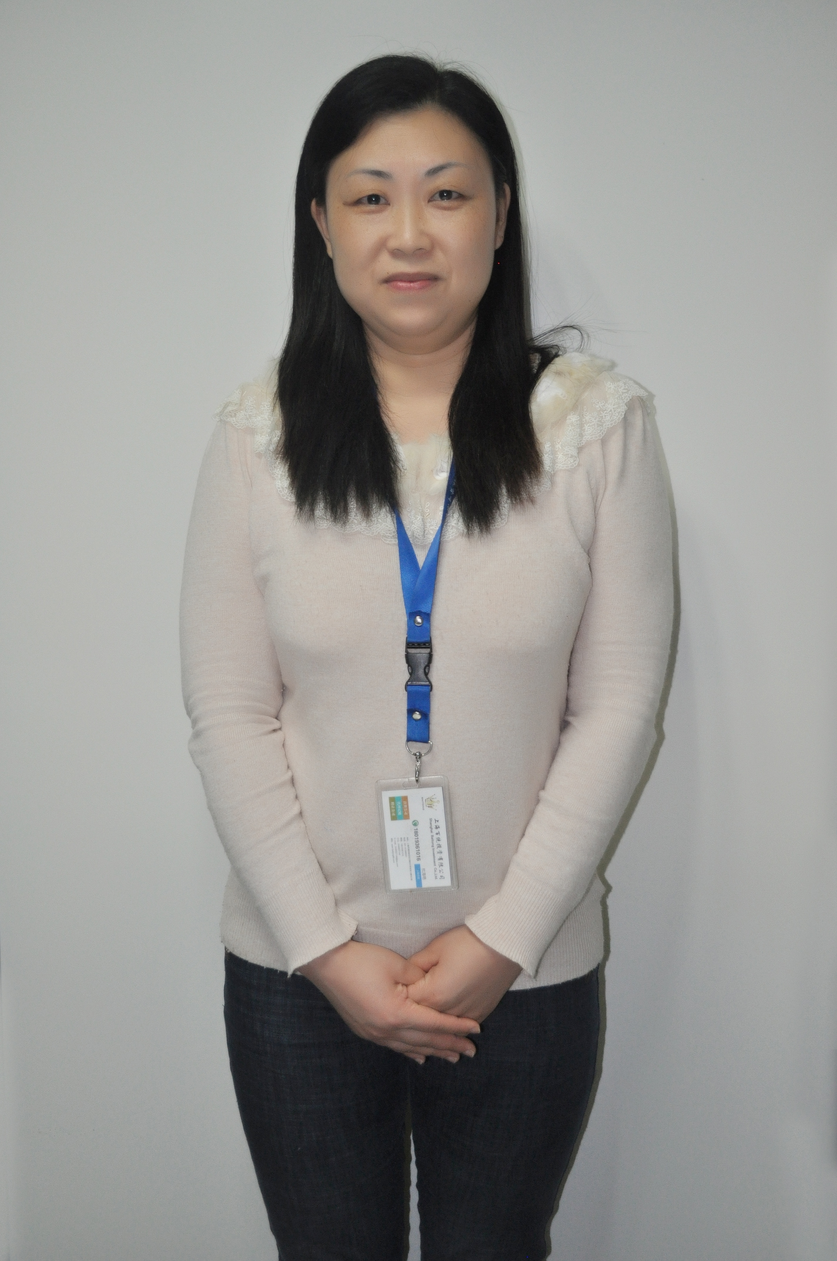
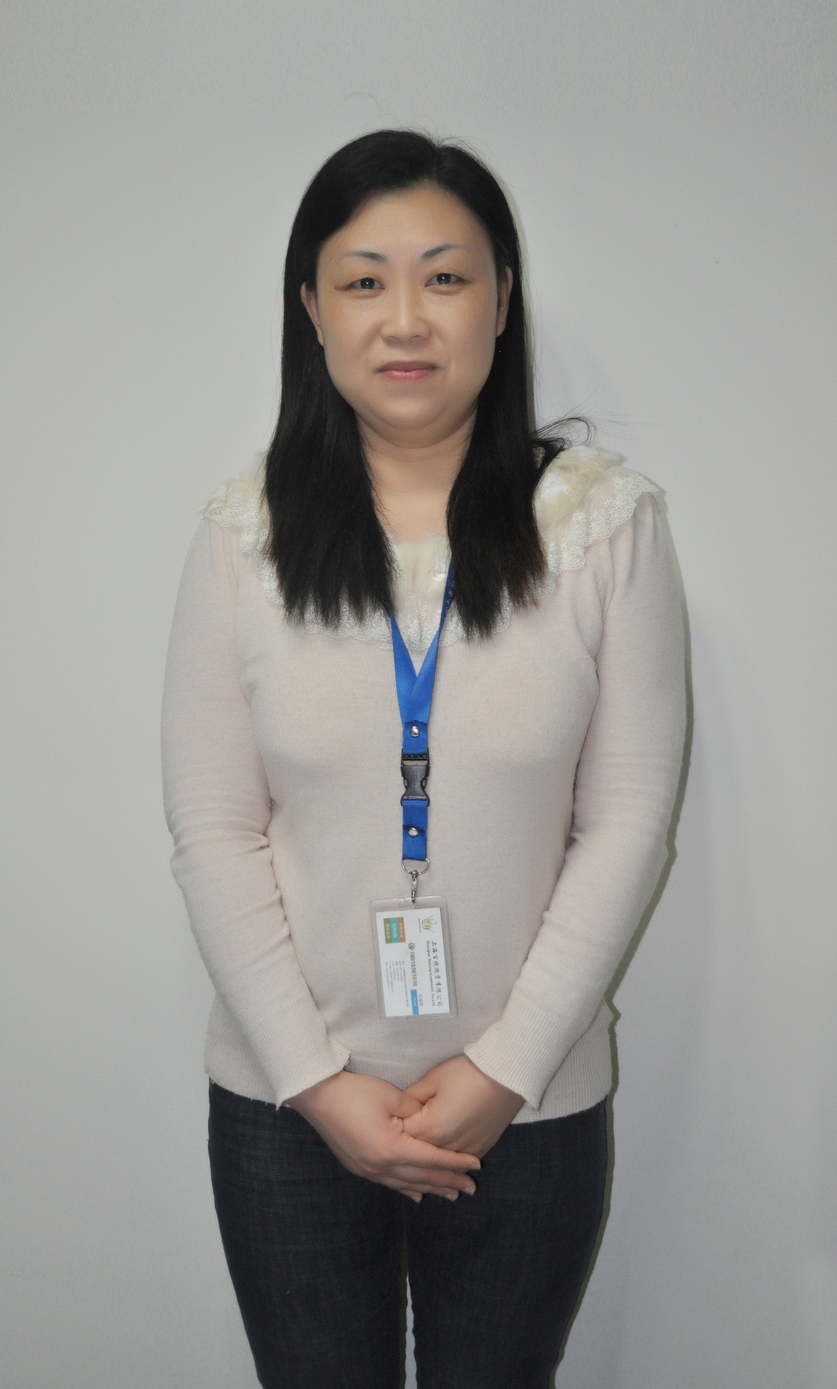
u

diff --git a/templates/homepage/media1.html b/templates/homepage/media1.html
@@ -1,0 +1,67 @@
+<style>
+    .new{width:100%;background:#fff;padding-top:48px;padding-bottom:60px;}
+    .media{width:1200px;margin:0 auto;overflow: hidden;}
+    .company{width:380px;float:left;margin-right:30px;}
+    .media_top{width:100%;border-bottom:1px solid #d02e4e;font-size:32px;font-size:1.75rem;color:#333;padding-bottom:13px;padding-bottom:0.8rem;}
+    .media_top .l{font-size:14px;color:#666;}
+    .media_top .r{float:right;display:block;background:url(/statics/images/img/jia.png) no-repeat left;padding-left:24px;font-size:14px;padding-left:1.5rem;font-size:0.875rem;color:#666;margin-right:14px;margin-right:0.9rem;}
+    .media_top .r a{color:#666;}
+    .media_img img{margin-top:24px;margin-top:1.5rem;display: block;height: auto;max-width: 100%;line-height: 1;}
+    .txt{font-size:16px;width:100%;text-align:center;line-height:32px;line-height:2.0rem;background:url(/statics/images/img/rgba60.png);left: 0;bottom: 0;color: #fff;font-family: "微软雅黑";position:absolute;margin-top:31px;margin-top:-1.95rem;}
+    .company ul li{width:100%;font-size:14px;line-height:31px;line-height:1.95rem;border-bottom:1px dashed #ccc;}
+    .company ul li.media_img{border:0;}
+    .company ul li a{color:#333;padding-left:20px;display: block;position:relative;}
+    .company ul li.media_img a{padding-left:0px;}
+    .company ul li a:hover{color:#c80027;}
+    .media ul li span{position: absolute;right:0;}
+    .media ul li i{width:4px;height:4px; border-radius: 2px;background:#c80027;position: absolute;left:0;top:13px;}
+    .dynamic{width:380px;float:left;margin-right:30px;}
+    .dynamic ul li{width:100%;font-size:14px;line-height:31px;line-height:1.95rem;border-bottom:1px dashed #ccc;}
+    .dynamic ul li.media_img{border:0;}
+    .dynamic ul li a{color:#333;padding-left:20px;display: block;position:relative;}
+    .dynamic ul li.media_img a{padding-left:0px;}
+    .dynamic ul li a:hover{color:#c80027;}
+    .ask{width:380px;float:left;}
+    .ask ul li{width:100%;font-size:14px;line-height:31px;line-height:1.95rem;border-bottom:1px dashed #ccc;}
+    .ask ul li.media_img{border:0;}
+    .ask ul li a{color:#333;padding-left:20px;display: block;position:relative;}
+    .ask ul li.media_img a{padding-left:0px;}
+    .ask ul li a:hover{color:#c80027;}
+</style>
+<div class="new">
+<div class="media">
+<div class="company">
+<div class="media_top">公司动态<br><span class="l">COMPANY NEWS</span><span class="r"><a href="/#">更多</a></span></div>
+<ul>
+<li class="media_img"><a href="#"><img src="http://www.sunaomei.com/statics/images/img/media.jpg" width="380" height="200"><div class="txt">新办天津村镇银行条件</div></a></li>
+<li><a href="#"><i></i><div class="ayong">精英齐聚风雨同舟,阳光奥美集团2017年春...<span>2017-01-22</span></div></a></li>
+<li><a href="#"><i></i><div class="ayong">工商总局关于全面推进企业简易注销登记...<span>2017-01-03</span></div></a></li>
+<li><a href="#"><i></i><div class="ayong">天津典当行转让-阳光奥美独家资源<span>2016-12-07</span></div></a></li>
+<li><a href="#"><i></i><div class="ayong">培训学校办学资质转让<span>2016-12-05</span></div></a></li>
+<li style="background: none;"><a href="#"><i></i><div class="ayong">转让带20个车指标的汽车租赁公司<span>2016-11-22</span></div></a></li>
+</ul>
+</div>
+<div class="dynamic">
+<div class="media_top">行业资讯<br><span class="l">INDUSTRY INFORMATION </span><span class="r"><a href="/#">更多</a></span></div>
+<ul>
+<li class="media_img"><a href="#"><img src="http://www.sunaomei.com/statics/images/img/media01.jpg" width="380" height="200"><div class="txt">2017年外资商业保理公司注册资金要求详解</div></a></li>
+<li><a href="#.html"><i></i><div class="ayong">2017年外资融资租赁公司经营范围及注册...<span>2017-02-10</span></div></a></li>
+<li><a href="#"><i></i><div class="ayong">股份有限公司注册-股份有限公司设立的条...<span>2017-02-10</span></div></a></li>
+<li><a href="#"><i></i><div class="ayong">商业保理公司注册流程详解<span>2016-12-08</span></div></a></li>
+<li><a href="#"><i></i><div class="ayong">北京公司股权转让有五大类型<span>2016-10-27</span></div></a></li>
+<li style="background: none;"><a href="#"><i></i><div class="ayong">融资租赁公司注册需要具备哪些条件？<span>2016-10-19</span></div></a></li>
+</ul>
+</div>
+<div class="ask">
+<div class="media_top">常见问题<br><span class="l">FREQUENTLY ASKED QUESTIONS</span><span class="r"><a href="/#">更多</a></span></div>
+<ul>
+<li class="media_img"><a href="#l"><img src="http://www.sunaomei.com/statics/images/img/media02.jpg" width="380" height="200"><div class="txt">北京车指标常见问题解答</div></a></li>
+<li><a href="#"><i></i><div class="ayong">申请基金销售业务资格应当具备什么条件<span>2016-12-09</span></div></a></li>
+<li><a href="#"><i></i><div class="ayong">北京注册分公司需要提供什么资料？<span>2016-12-09</span></div></a></li>
+<li><a href="#"><i></i><div class="ayong">融资租赁纯外资的要变更合资的，对内资...<span>2016-12-05</span></div></a></li>
+<li><a href="#"><i></i><div class="ayong">上海注册融资租赁公司多少钱？<span>2016-11-15</span></div></a></li>
+<li style="background: none;"><a href="#"><i></i><div class="ayong">注册融资租赁公司审批条件？<span>2016-11-01</span></div></a></li>
+</ul>
+</div>
+</div>
+</div>

diff --git a/templates/homepage/recent_works.html b/templates/homepage/recent_works.html
@@ -9,7 +9,7 @@
 	margin-left: auto;
 	margin-right: auto;
 }
-.pic img{
+.pic_work img{
     width: 230px;
     height: 260px;
 }
@@ -20,8 +20,8 @@
 .picScroll-left .bd{ padding-top:20px;margin-left:25px}
 .picScroll-left .bd ul{ overflow:hidden;}
 .picScroll-left .bd ul li{ margin:0 10px;width:230px;float:left;display:inline; overflow:hidden; text-align:center;  }
-.picScroll-left .bd ul li .pic{text-align:center;}
-.picScroll-left .bd ul li .pic img{ display:block; }
+.picScroll-left .bd ul li .pic_work{text-align:center;}
+.picScroll-left .bd ul li .pic_work img{ display:block; }
 .picScroll-left .bd ul li .title{ line-height:50px;}
 </style>
 <section id="recent_works" style="padding-bottom: 0px">
@@ -37,47 +37,47 @@
 			<div class="bd">
 				<ul class="picList">
 					<li>
-						<div class="pic"><a href="#"><img src="/static/images/works/1451028390595648.jpg"/></a></div>
+						<div class="pic_work"><a href="#"><img src="/static/images/works/1451028390595648.jpg"/></a></div>
 						<div class="title"><a href="#">全国私募备案</a></div>
 					</li>
 					<li>
-						<div class="pic"><a href="#"><img src="/static/images/works/1451369720559917.jpg" /></a></div>
+						<div class="pic_work"><a href="#"><img src="/static/images/works/1451369720559917.jpg" /></a></div>
 						<div class="title"><a href="#">水路运输服务许可证</a></div>
 					</li>
 					<li>
-						<div class="pic"><a href="#"><img src="/static/images/works/1451029487820099.jpg" /></a></div>
+						<div class="pic_work"><a href="#"><img src="/static/images/works/1451029487820099.jpg" /></a></div>
 						<div class="title"><a href="#">基金公司</a></div>
 					</li>
 					<li>
-						<div class="pic"><a href="#"><img src="/static/images/works/1451369869951302.jpg" /></a></div>
+						<div class="pic_work"><a href="#"><img src="/static/images/works/1451369869951302.jpg" /></a></div>
 						<div class="title"><a href="#">无船承运</a></div>
 					</li>
                     <li>
-						<div class="pic"><a href="#"><img src="/static/images/works/1451029575574655.jpg" /></a></div>
+						<div class="pic_work"><a href="#"><img src="/static/images/works/1451029575574655.jpg" /></a></div>
 						<div class="title"><a href="#">航空铜牌</a></div>
 					</li>
                     <li>
-						<div class="pic"><a href="#"><img src="/static/images/works/1451370478665513.jpg" /></a></div>
+						<div class="pic_work"><a href="#"><img src="/static/images/works/1451370478665513.jpg" /></a></div>
 						<div class="title"><a href="#">建筑业企业资质证书</a></div>
 					</li>
                     <li>
-						<div class="pic"><a href="#"><img src="/static/images/works/1451024565992831.jpg" /></a></div>
+						<div class="pic_work"><a href="#"><img src="/static/images/works/1451024565992831.jpg" /></a></div>
 						<div class="title"><a href="#">1000万股份制有限公司</a></div>
 					</li>
                     <li>
-						<div class="pic"><a href="#"><img src="/static/images/works/1451027045631777.jpg" /></a></div>
+						<div class="pic_work"><a href="#"><img src="/static/images/works/1451027045631777.jpg" /></a></div>
 						<div class="title"><a href="#">3000万自贸区融资租赁公司</a></div>
 					</li>
                     <li>
-						<div class="pic"><a href="#"><img src="/static/images/works/1451027730572991.jpg" /></a></div>
+						<div class="pic_work"><a href="#"><img src="/static/images/works/1451027730572991.jpg" /></a></div>
 						<div class="title"><a href="#">5000万自贸区商业保理公司</a></div>
 					</li>
                     <li>
-						<div class="pic"><a href="#"><img src="/static/images/works/1451029749761175.jpg" /></a></div>
+						<div class="pic_work"><a href="#"><img src="/static/images/works/1451029749761175.jpg" /></a></div>
 						<div class="title"><a href="#">增值电信业务经营许可证</a></div>
 					</li>
                     <li>
-						<div class="pic"><a href="#"><img src="/static/images/works/2-151224103H60-L.jpg" /></a></div>
+						<div class="pic_work"><a href="#"><img src="/static/images/works/2-151224103H60-L.jpg" /></a></div>
 						<div class="title"><a href="#">1亿基金公司</a></div>
 					</li>
 				</ul>

diff --git a/templates/homepage/slider.html b/templates/homepage/slider.html
@@ -8,7 +8,7 @@
             </ol>
 
             <div class="carousel-inner">
-                <div class="item active" style="background-image: url(/static/images/slider/bg1.jpg);height:450px;overflow:hidden">
+                <div class="item active" style="background-image: url(/static/images/slider/bg1.jpg?v=1486906492);height:450px;overflow:hidden">
 {#                    <div class="container">#}
 {#                        <div class="row">#}
 {#                            <div class="col-sm-6">#}
@@ -30,7 +30,7 @@
 {#                    </div>#}
                 </div><!--/.item-->
 
-                <div class="item" style="background-image: url(/static/images/slider/bg2.jpg);height:450px;overflow:hidden">
+                <div class="item" style="background-image: url(/static/images/slider/bg2.jpg?v=1486906493);height:450px;overflow:hidden">
 {#                    <div class="container">#}
 {#                        <div class="row ">#}
 {#                            <div class="col-sm-6">#}
@@ -52,7 +52,7 @@
 {#                    </div>#}
                 </div><!--/.item-->
 
-                <div class="item" style="background-image: url(/static/images/slider/bg01.jpg);height:450px;overflow:hidden">
+                <div class="item" style="background-image: url(/static/images/slider/bg01.jpg?v=1486906492);height:450px;overflow:hidden">
 {#                    <div class="container">#}
 {#                        <div class="row">#}
 {#                            <div class="col-sm-6">#}

diff --git a/templates/homepage/members.html b/templates/homepage/members.html
@@ -2,6 +2,10 @@
 #members{
     background-color: #fff9f6;
 }
+#members .pic img{
+    width: 200px;
+    height: 325px;
+}
 .picScroll-left{
 	width: 100%;
 	height: auto;
@@ -11,9 +15,9 @@
 	margin-left: auto;
 	margin-right: auto;
 }
-.picScroll-left .hd .prev{isplay:block;  float:left; margin-left:5px; margin-top:120px;  overflow:hidden;
+.picScroll-left .hd .prev{isplay:block;  float:left; margin-left:5px; margin-top:160px;  overflow:hidden;
 			 cursor:pointer; }
-.picScroll-left .hd .next{ display:block;  float:right; margin-right:5px; margin-top:120px;  overflow:hidden;
+.picScroll-left .hd .next{ display:block;  float:right; margin-right:5px; margin-top:160px;  overflow:hidden;
 			 cursor:pointer; }
 .picScroll-left .bd{ padding-top:20px;margin-left:25px}
 .picScroll-left .bd ul{ overflow:hidden;}
@@ -58,7 +62,7 @@
                         </div>
 					</li>
 					<li>
-						<div class="pic"><a href="javascript:void(0)" onclick="showMemberDetail(this)"><img src="/static/images/members/cuishiqin.jpg?v=123" /></a>
+						<div class="pic"><a href="javascript:void(0)" onclick="showMemberDetail(this)"><img src="/static/images/members/cuishiqin.jpg?v=1486906492" /></a>
                                                     <div class="title">工商顾问--崔士勤 </div>
                             <button class="btn btn-danger btn-sm">在线咨询</button>
                         </div>

diff --git a/templates/homepage.html b/templates/homepage.html
@@ -8,11 +8,11 @@
 {#     {% include 'homepage/register_steps.html' %}#}
 
 {#     {% include 'homepage/skills.html' %}#}
-{#     {% include 'homepage/media.html' %}#}
      {% include 'homepage/advert1.html' %}
      {% include 'homepage/character.html' %}
      {% include 'homepage/recent_works.html' %}
      {% include 'homepage/advert2.html' %}
+     {% include 'homepage/media1.html' %}
      {% include 'homepage/members.html' %}
      {% include 'homepage/parters.html' %}
 

diff --git a/gunicornserver.py b/gunicornserver.py
@@ -7,6 +7,7 @@ class GunicornServer(Command):
     description = 'Run the app within Gunicorn'
 
     def __init__(self, host='127.0.0.1', port=5000, workers=9, worker_class="sync", daemon=False):
+        print '........'
         self.port = port
         self.host = host
         self.workers = workers
@@ -40,7 +41,9 @@ class GunicornServer(Command):
                    default=self.daemon)
         )
 
-    def handle(self, app, host, port, workers, worker_class, daemon):
+    def run(self, *args):
+        print '22222222222'
+        app, host, port, workers, worker_class, daemon = args
 
         from gunicorn import version_info
 
